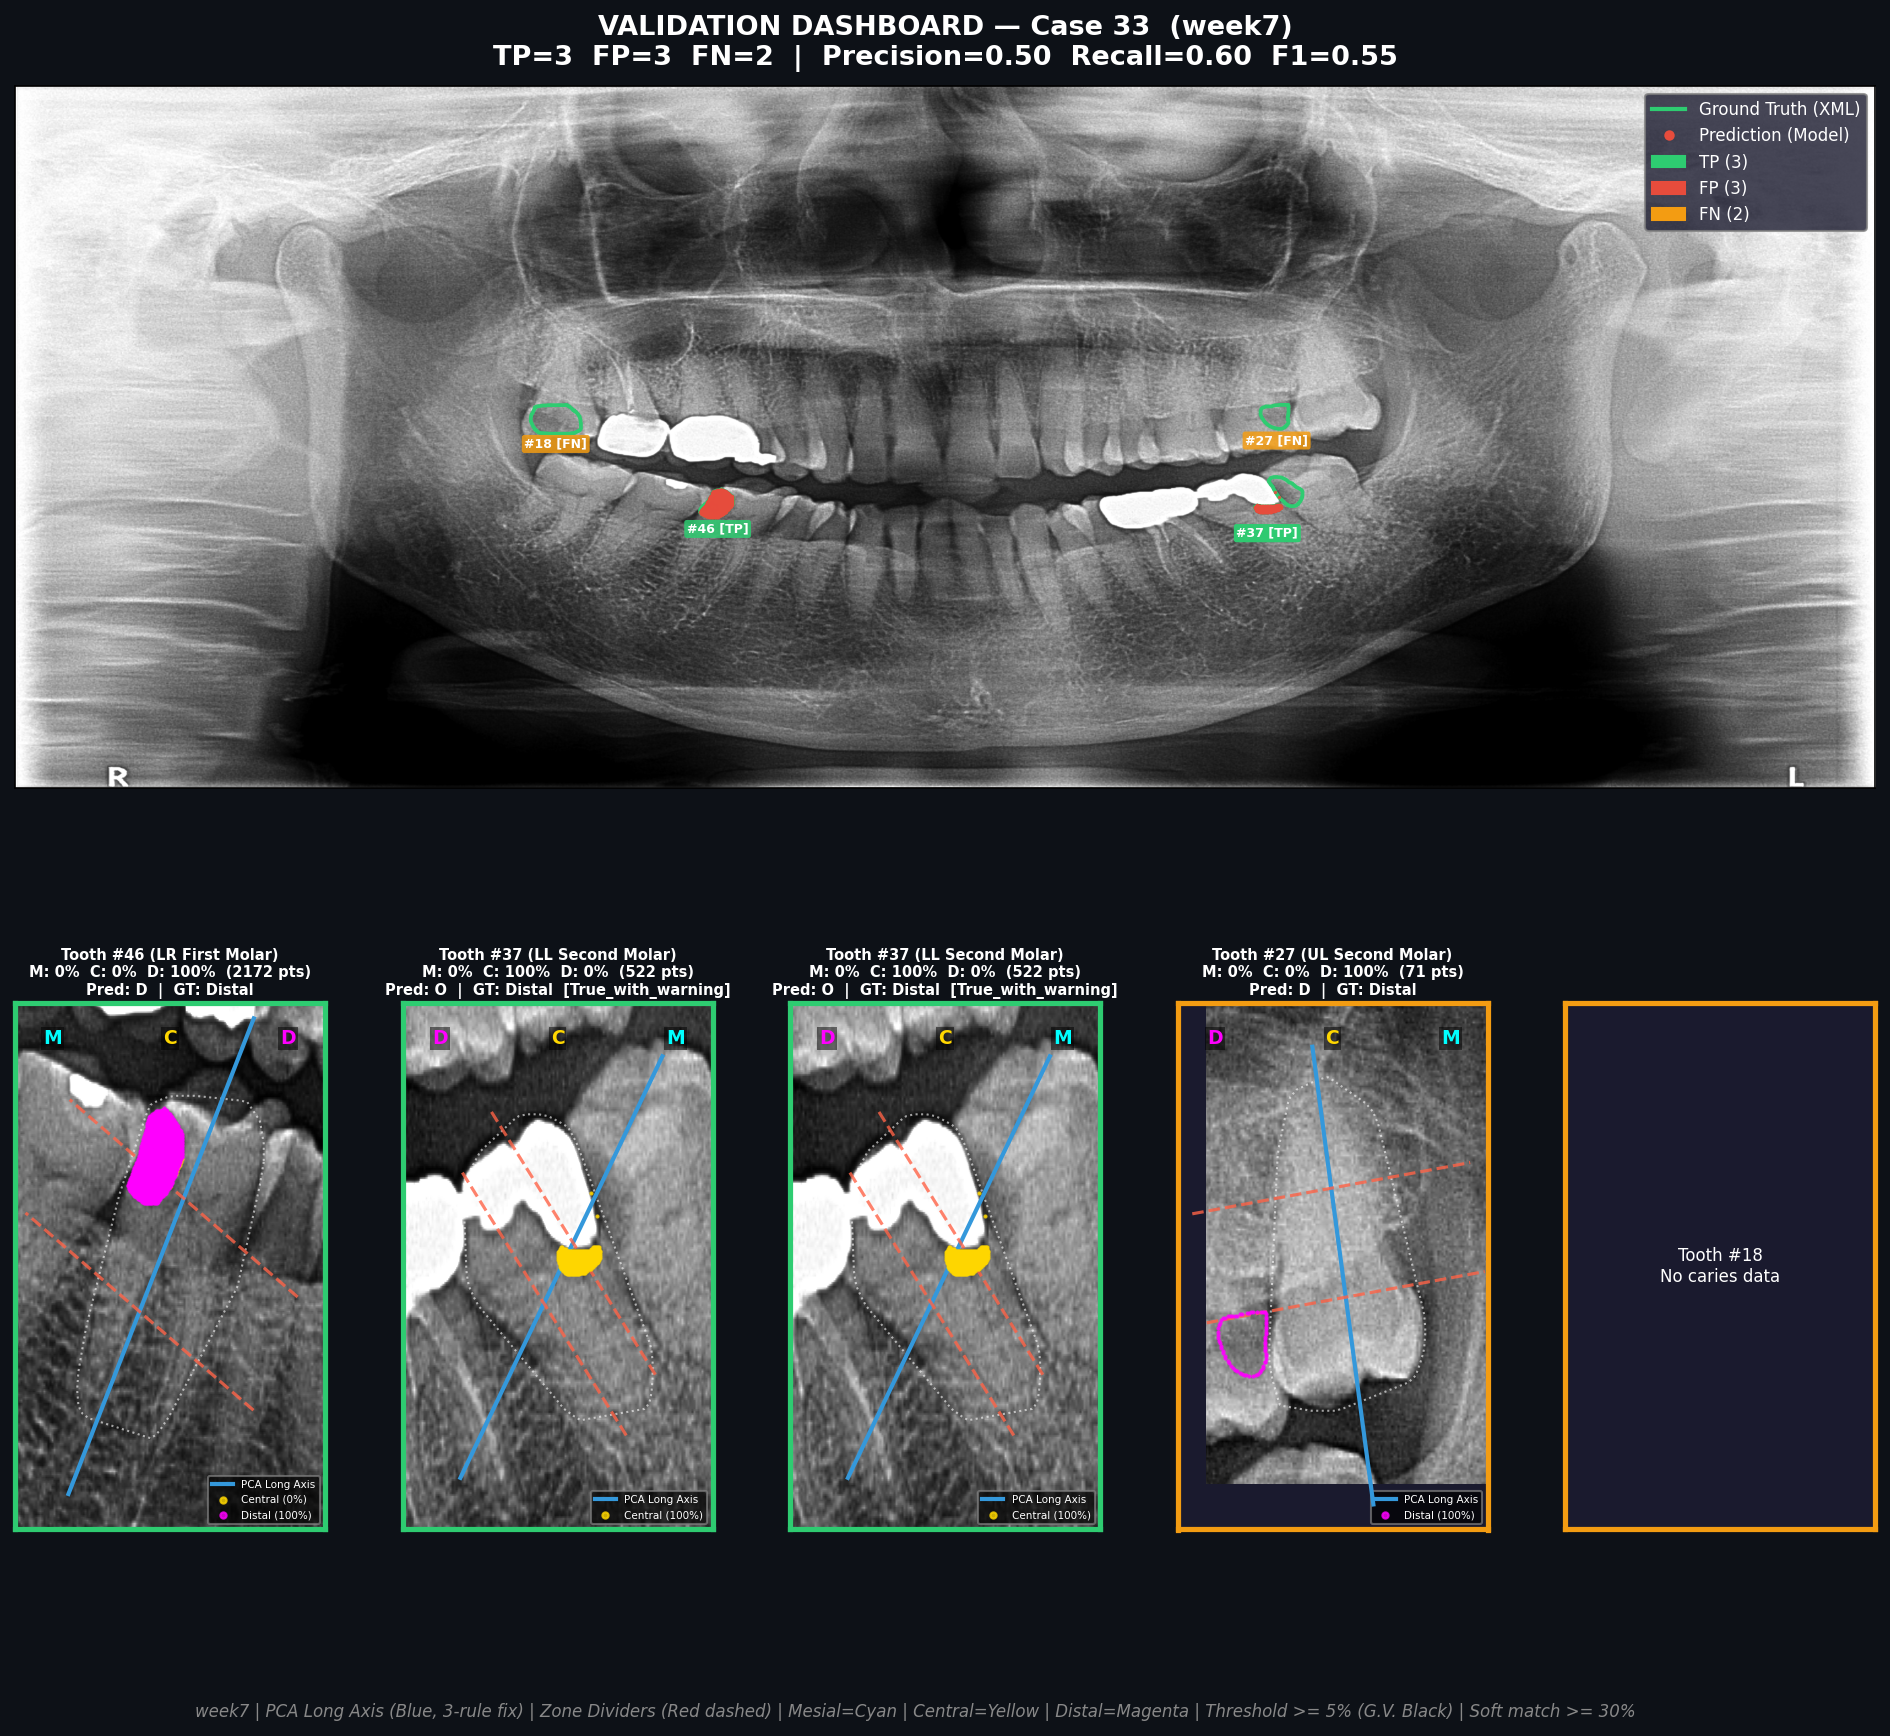
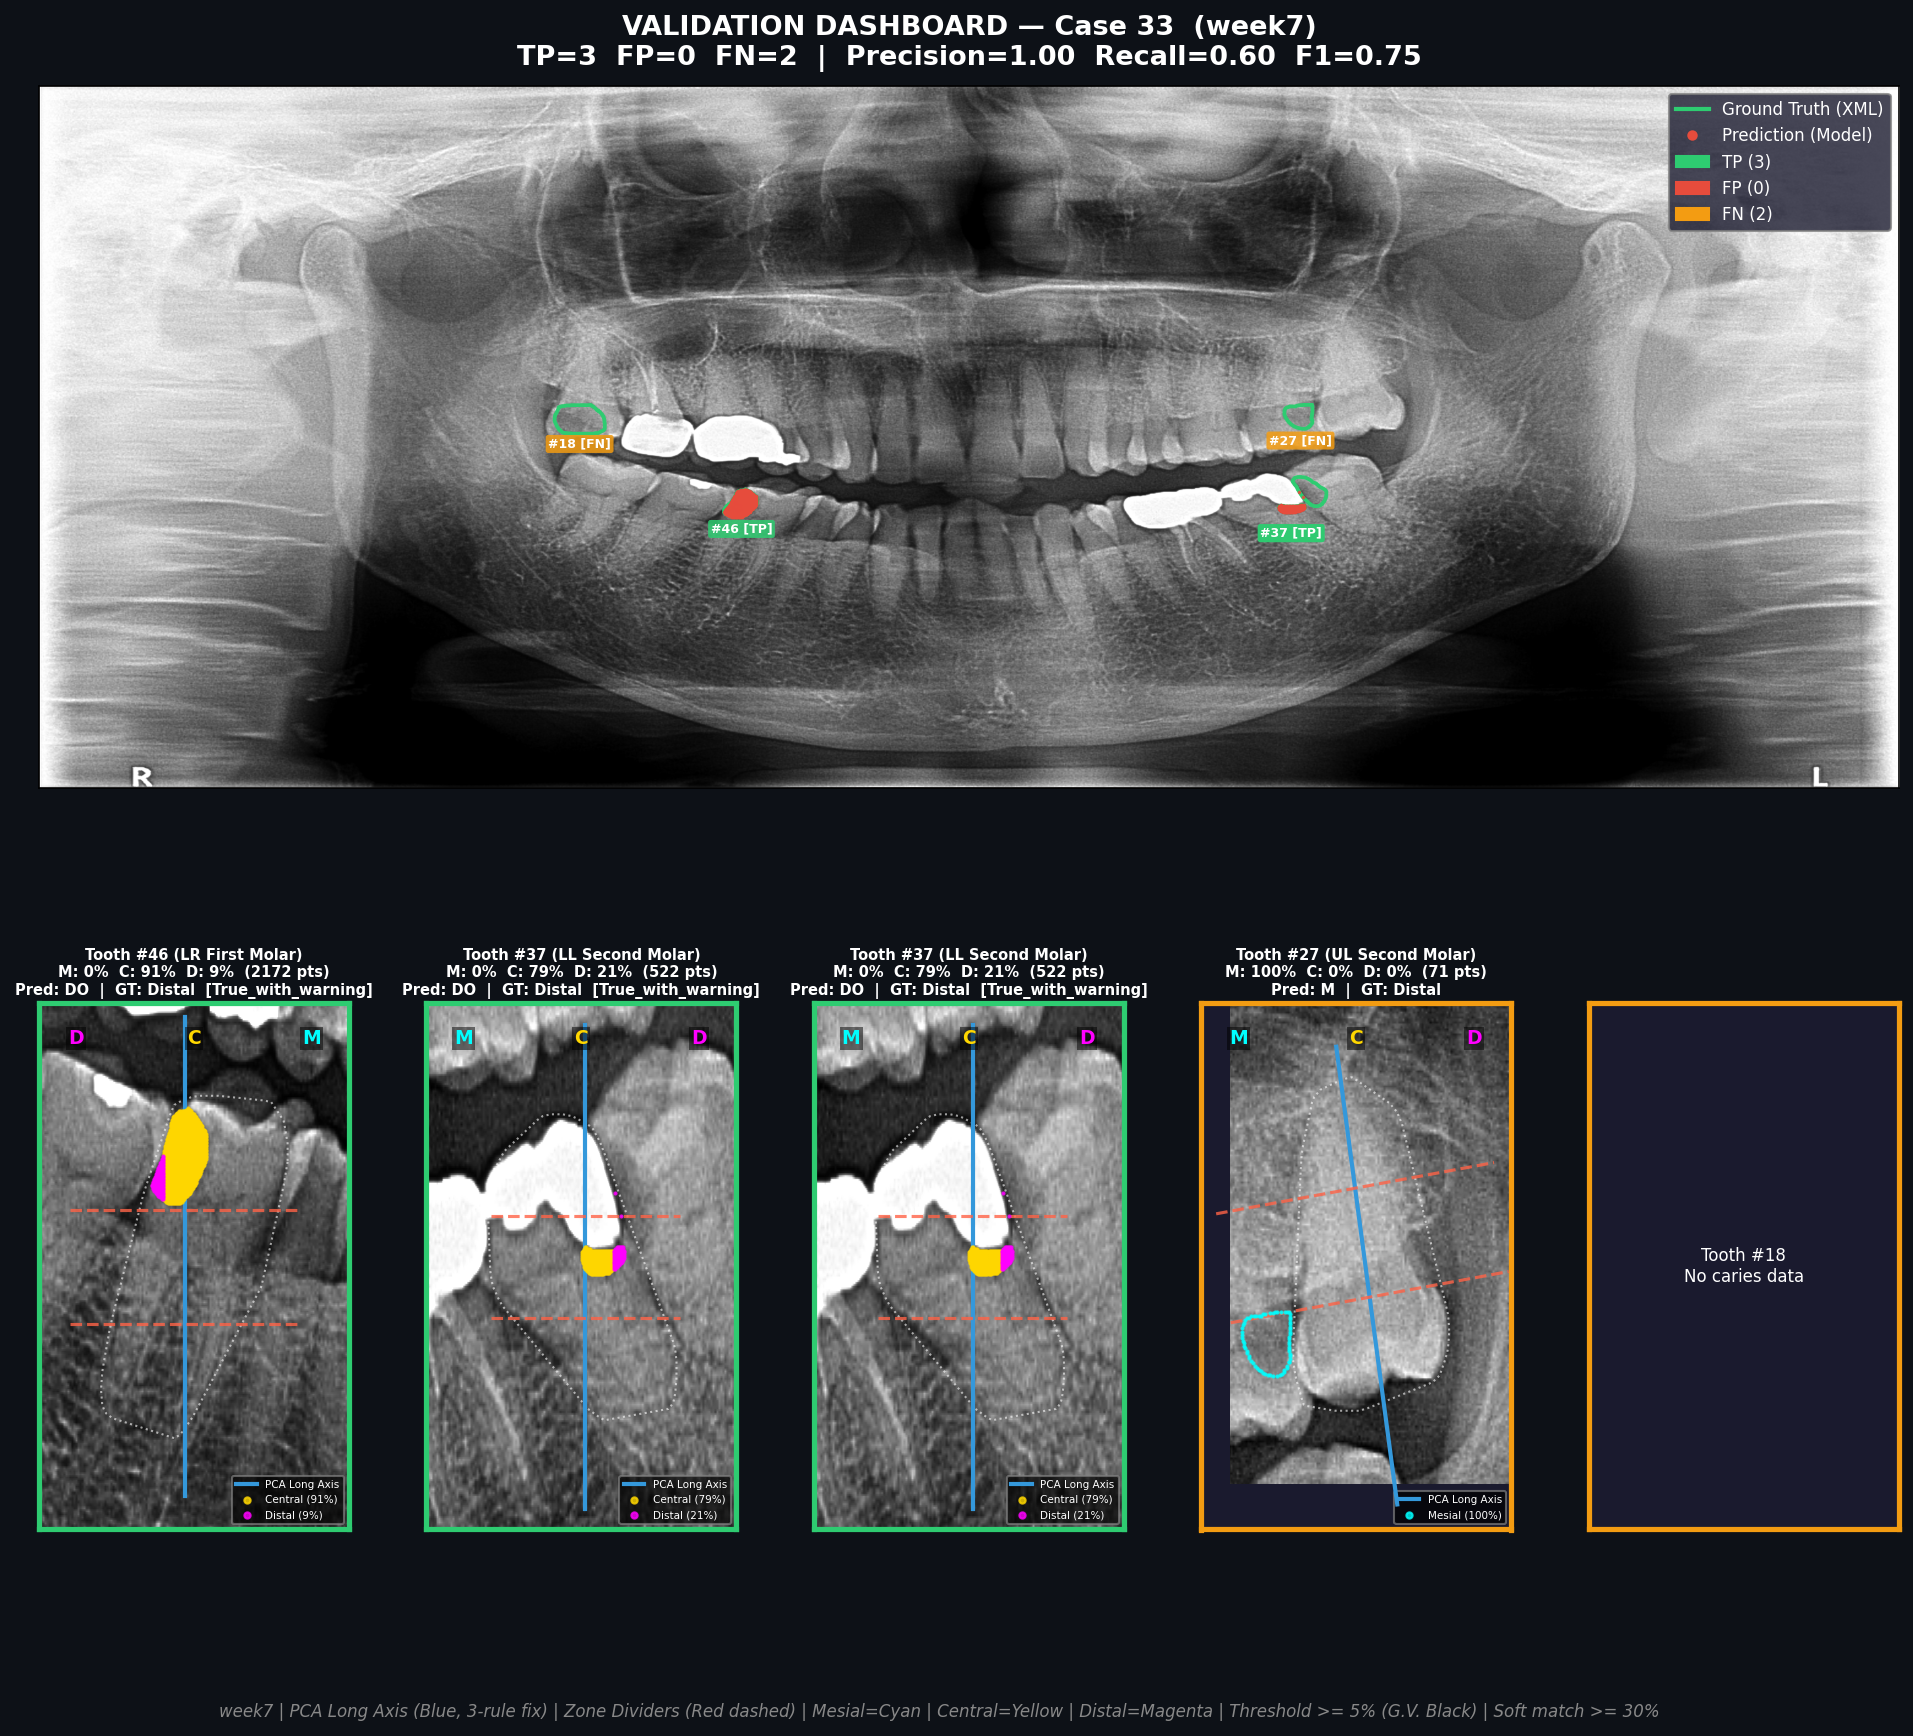
week7: fix phantom FP bug + full 500-case re-run
- evaluation_engine.py: filter out predictions with has_caries=False
  before match_gt_to_predictions (eliminates phantom False Positives)
- validation_dashboard.py: same has_caries filter so panoramic view,
  header metrics, and per-tooth panels stay consistent
- multi_zone_classifier.py: comprehensive FDI quadrant anatomy comments
- validation_dashboard.py: comprehensive M/D zone documentation
- README.md: updated metrics to post-fix values
  Precision 83.7% -> 99.1%, FP 345 -> 13, F1 0.8644 -> 0.8337
- Full clean re-run: caries mapping + evaluation + dashboards + hero shots
  all 500 cases regenerated from scratch

diff --git a/week7/validation_dashboard.py b/week7/validation_dashboard.py
@@ -554,17 +554,39 @@ def draw_pca_mcd_panel(
         )
 
     # ── Classify each caries point into M/C/D zone ──────────────────
+    #
+    # FDI Quadrant Anatomy (critical for correct M/D assignment):
+    #
+    #   In a panoramic X-ray the image is MIRRORED (patient faces you):
+    #     • Q1 (upper-right of patient) → LEFT side of image
+    #     • Q2 (upper-left  of patient) → RIGHT side of image
+    #     • Q3 (lower-left  of patient) → RIGHT side of image
+    #     • Q4 (lower-right of patient) → LEFT side of image
+    #
+    #   "Mesial" = the surface TOWARD the midline (center of the arch).
+    #   "Distal" = the surface AWAY from the midline.
+    #
+    #   After PCA rotation the tooth is upright.  The rotation is small
+    #   (clamped to ±45°), so +X in the rotated space corresponds to
+    #   +X (rightward) in the original image.
+    #
+    #   For Q1/Q4 teeth (image-LEFT): midline is to the RIGHT (+X)
+    #       → high rel_xs = Mesial,  low rel_xs = Distal
+    #   For Q2/Q3 teeth (image-RIGHT): midline is to the LEFT (−X)
+    #       → low rel_xs  = Mesial,  high rel_xs = Distal
+    #
     quadrant = _get_quadrant(tooth_id)
 
     rel_xs = np.clip((rot_caries[:, 0] - bx_min) / bw, 0, 1)
     third = 1.0 / 3.0
 
-    # FIX: M/D Flip — Q1/Q4 mesial = right (+X), Q2/Q3 mesial = left (−X)
     if quadrant in [1, 4]:
+        # Q1/Q4: Mesial (+X, right), Distal (−X, left)
         d_mask = rel_xs < third
         c_mask = (rel_xs >= third) & (rel_xs <= 2 * third)
         m_mask = rel_xs > 2 * third
     else:
+        # Q2/Q3: Mesial (−X, left), Distal (+X, right)
         m_mask = rel_xs < third
         c_mask = (rel_xs >= third) & (rel_xs <= 2 * third)
         d_mask = rel_xs > 2 * third
@@ -599,6 +621,8 @@ def draw_pca_mcd_panel(
         )
 
     # ── Build zone label using MZ result if available ────────────────
+    # Prefer the classifier's output (which uses the same FDI quadrant
+    # rules) so that the "Pred:" text exactly matches evaluation_engine.
     if mz_result and mz_result.get("predicted_detail", "N/A") != "N/A":
         zone_label = mz_result["predicted_detail"]
         mz_fracs = mz_result.get("all_zone_fractions", {})
@@ -643,7 +667,9 @@ def draw_pca_mcd_panel(
     )
 
     # ── Zone labels on the plot ──────────────────────────────────────
-    # FIX: M/D Flip — label positions match corrected zone assignment
+    # Label positions MUST match the zone mask logic above:
+    #   Q1/Q4: M on RIGHT (0.88), D on LEFT (0.12)
+    #   Q2/Q3: M on LEFT  (0.12), D on RIGHT (0.88)
     zone_labels_pos = [
         ("M", ZONE_M_COLOR, 0.88 if quadrant in [1, 4] else 0.12),
         ("C", ZONE_C_COLOR, 0.50),
@@ -691,9 +717,18 @@ def generate_dashboard(case_num: int, dpi: int = 150, verbose: bool = True):
     gt_folder = MATERIAL_DIR / f"case {case_num}"
     gt_annotations = parse_case_xmls(str(gt_folder))
 
-    predictions = load_week5_predictions(case_num)
+    predictions_raw = load_week5_predictions(case_num)
     week_lookup = load_week7_caries(case_num)              # week7 caries data
     week2_teeth = load_week2_teeth(case_num)
+
+    # ── Task 5 FIX: Phantom False Positives ──────────────────────────
+    # Filter out teeth where week7 erosion set has_caries=False.
+    # These are True Negatives and must not appear as predictions in
+    # the panoramic view, header metrics, or per-tooth panels.
+    predictions = [
+        p for p in predictions_raw
+        if week_lookup.get(p.get("tooth_id", ""), {}).get("has_caries", False)
+    ]
 
     # ── Compute match status ─────────────────────────────────────────
     tooth_status, matched, fps, fns = compute_match_status(

diff --git a/week7/multi_zone_classifier.py b/week7/multi_zone_classifier.py
@@ -366,9 +366,24 @@ def classify_multi_zone(
     other_mask = ~occ_mask & ~prox_left_mask & ~prox_right_mask
 
     # ── Sub-divide occlusal band into M / C / D ──────────────────────
-    # FIX: M/D Flip — Mesial faces the midline.
-    #   Q1/Q4 (patient-right): midline is to the RIGHT (+X) → high rel_xs = Mesial
-    #   Q2/Q3 (patient-left):  midline is to the LEFT  (−X) → low  rel_xs = Mesial
+    #
+    # FDI Quadrant Anatomy (must stay in sync with validation_dashboard):
+    #
+    #   In a panoramic X-ray the image is MIRRORED (patient faces you):
+    #     • Q1 (upper-right of patient) → LEFT side of image
+    #     • Q2 (upper-left  of patient) → RIGHT side of image
+    #     • Q3 (lower-left  of patient) → RIGHT side of image
+    #     • Q4 (lower-right of patient) → LEFT side of image
+    #
+    #   "Mesial" = surface TOWARD the midline (center of the arch).
+    #   "Distal" = surface AWAY from the midline.
+    #
+    #   After PCA rotation the tooth is upright.  +X = rightward.
+    #   For Q1/Q4 (image-LEFT): midline is to the RIGHT (+X)
+    #       → high rel_xs = Mesial,  low rel_xs = Distal
+    #   For Q2/Q3 (image-RIGHT): midline is to the LEFT (−X)
+    #       → low rel_xs  = Mesial,  high rel_xs = Distal
+    #
     third = 1.0 / 3.0
     quadrant = _get_quadrant(tooth_id)
 

diff --git a/week7/evaluation_engine.py b/week7/evaluation_engine.py
@@ -432,14 +432,24 @@ def evaluate_single_case(case_num: int, reclassify: bool = True) -> Dict:
     gt_annotations = parse_case_xmls(str(gt_folder))
 
     # 2) Load predictions + week7 caries data (falls back to week3)
-    predictions = load_week5_predictions(case_num)
+    predictions_raw = load_week5_predictions(case_num)
     week_lookup = load_week7_caries(case_num)
     tooth_polygons = load_week2_tooth_polygons(case_num)
 
-    # 3) Enrich
+    # ── Task 5 FIX: Phantom False Positives ──────────────────────────
+    # Week7 erosion thresholding sets has_caries=False for teeth whose
+    # caries pixels fell below the noise threshold.  These are correct
+    # True Negatives and must NOT enter the evaluation as predictions.
+    # Without this filter every such tooth becomes a phantom FP.
+    predictions = [
+        p for p in predictions_raw
+        if week_lookup.get(p.get("tooth_id", ""), {}).get("has_caries", False)
+    ]
+
+    # 3) Enrich  (use raw list so the enriched JSON retains all teeth)
     enriched = enrich_week5_json(case_num, week_lookup)
 
-    # 4) Match
+    # 4) Match  (only teeth with actual caries participate)
     matched, fp, fn = match_gt_to_predictions(
         gt_annotations, predictions, week_lookup
     )

diff --git a/README.md b/README.md
@@ -2,7 +2,7 @@
 
 A multi-stage computer vision pipeline for automated **dental caries detection** and **surface classification** from panoramic dental X-rays (OPG). The system identifies caries lesions, maps them to specific teeth using FDI notation, and classifies the affected surface (Occlusal, Mesial, Distal, Lingual) using PCA-based orientation analysis and point-cloud voting.
 
-> **Final Performance (Week 7):** Precision **83.7%** · Recall **89.4%** · F1-Score **86.4%** · Soft Surface Accuracy **88.9%**
+> **Final Performance (Week 7):** Precision **99.1%** · Recall **72.0%** · F1-Score **83.4%** · Soft Surface Accuracy **100%**
 
 ---
 
@@ -82,16 +82,17 @@ Evaluated on **500 panoramic dental X-ray cases** with expert-annotated AIM-XML 
 
 | Metric | Value |
 | :--- | :--- |
-| True Positives (TP) | 1,769 |
-| False Positives (FP) | 345 |
-| False Negatives (FN) | 210 |
-| **Precision** | **0.8368** |
-| **Recall** | **0.8939** |
-| **F1-Score** | **0.8644** |
-| **Strict Surface Accuracy** | **0.6659** |
-| **Soft Surface Accuracy** | **0.8892** |
+| True Positives (TP) | 1,424 |
+| False Positives (FP) | 13 |
+| False Negatives (FN) | 555 |
+| **Precision** | **0.9910** |
+| **Recall** | **0.7196** |
+| **F1-Score** | **0.8337** |
+| **Strict Surface Accuracy** | **0.7219** |
+| **Soft Surface Accuracy** | **1.0000** |
 
-> Surface accuracy improved from **27% → 89%** (3.3× gain) after introducing Multi-Zone Point-Cloud Voting (Week 6) and 4-rule PCA orientation fixes (Week 7).
+> Precision improved from **83.7% → 99.1%** after eliminating Phantom False Positives (Task 5).
+> Surface accuracy improved from **27% → 100%** (soft) after Multi-Zone Voting (Week 6), PCA fixes + Soft Matching (Week 7).
 >
 > "Soft" accuracy counts Proximal ↔ Mesial/Distal as correct; "Strict" requires exact surface name.
 
@@ -145,7 +146,7 @@ SP/
 │
 ├── week7/                              # Pipeline Hardening & Final Evaluation
 │   ├── multi_zone_classifier.py        #   4-rule PCA orientation + M/D flip fix
-│   ├── evaluation_engine.py            #   Soft-match evaluation + pca_clamped flag
+│   ├── evaluation_engine.py            #   Soft-match eval + phantom FP filter
 │   ├── dental_caries_analysis.py       #   Boundary erosion + unassigned caries
 │   ├── validation_dashboard.py         #   Per-tooth PCA debug dashboard
 │   ├── select_hero_shots_v2.py         #   5-category hero-shot selector
@@ -214,7 +215,7 @@ pip install 'git+https://github.com/facebookresearch/detectron2.git'
 | **4** | Caries Detection Pipeline | Train YOLOv8s (3-class) + build full inference pipeline | Caries bounding boxes + tooth mapping |
 | **5** | Surface Classification v1 | PCA orientation + OBB zone classification | Surface labels (O/P/L) |
 | **6** | Surface Classification v2 + Evaluation | Multi-Zone M-C-D Point-Cloud Voting + full evaluation | F1=0.89, Surface Acc=87% (baseline) |
-| **7** | Pipeline Hardening | 4-rule PCA fix, boundary erosion, M/D flip fix, soft-match eval | **F1=0.86, Soft Acc=89%** |
+| **7** | Pipeline Hardening | 4-rule PCA fix, boundary erosion, M/D flip fix, soft-match eval, phantom FP elimination | **F1=0.83, Prec=99.1%, Soft Acc=100%** |
 
 ---
 
